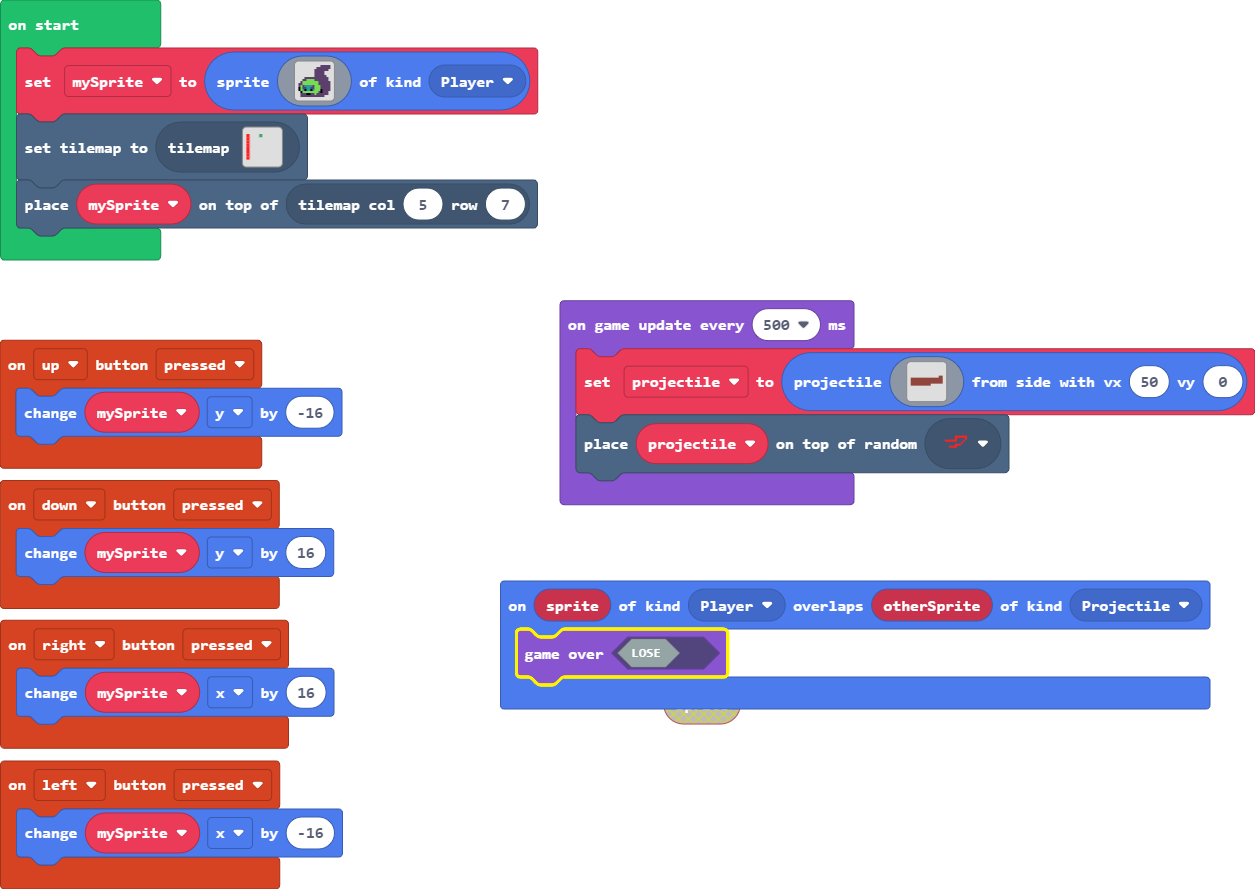
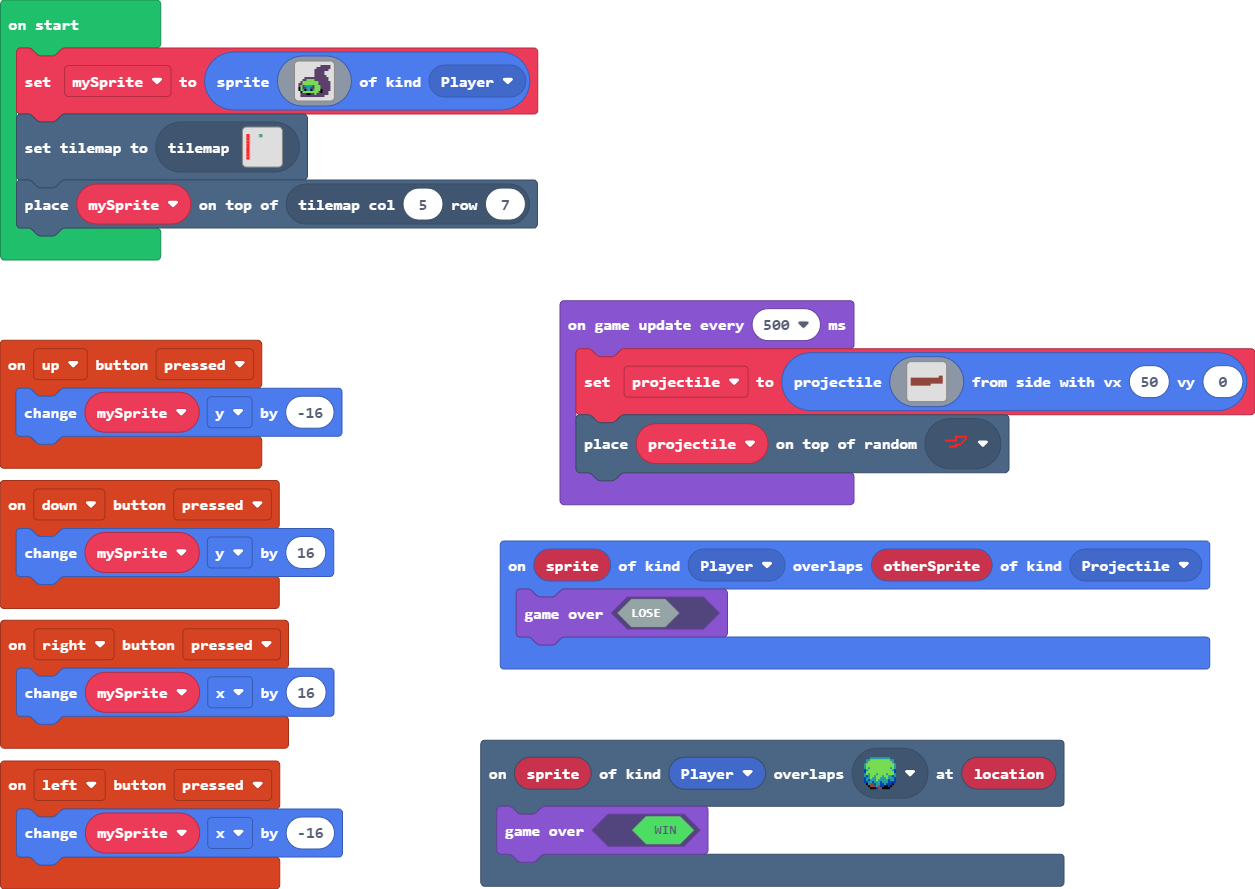
Update main.blocks, main.ts

Changed region(s): [[0.3729, 0.6074, 0.9633, 1.0]]

diff --git a/main.ts b/main.ts
@@ -1,6 +1,9 @@
 controller.up.onEvent(ControllerButtonEvent.Pressed, function () {
     mySprite.y += -16
 })
+scene.onOverlapTile(SpriteKind.Player, sprites.builtin.forestTiles0, function (sprite, location) {
+    game.gameOver(true)
+})
 controller.left.onEvent(ControllerButtonEvent.Pressed, function () {
     mySprite.x += -16
 })
